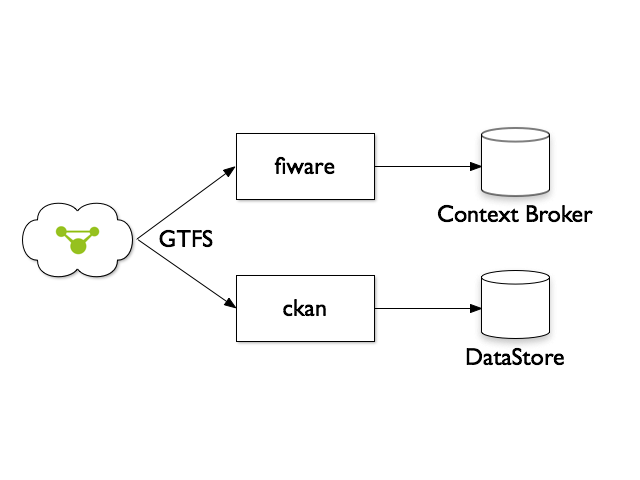
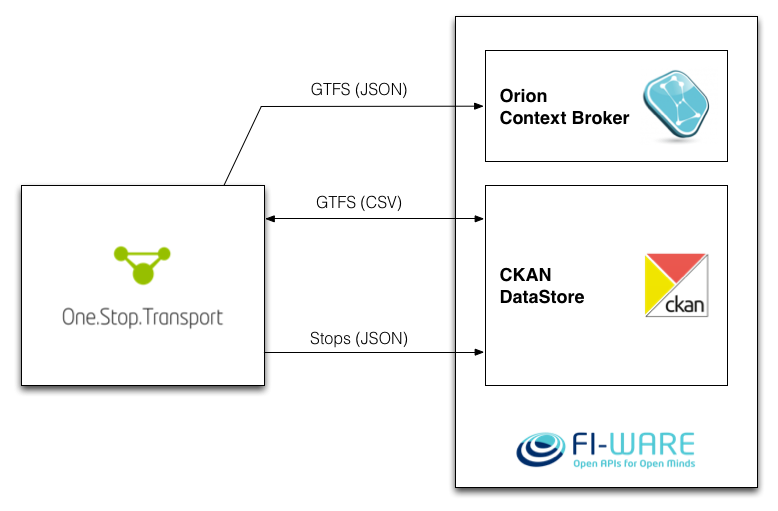
Updates the README:
- splits technical details to other doc
- updates the diagram
- information is more up-to-date

diff --git a/README.md b/README.md
@@ -1,105 +1,19 @@
-`Python` connectors between **One.Stop.Transport** and **FI-WARE** (Orion Context Broker and CKAN).
-
+Python connectors between **One.Stop.Transport** and **FI-WARE**, for demonstration purposes of the FIWARE Lisbon Case.
 
 ## FI-WARE Lisbon use case
 
-This is an Integration project between [One.Stop.Transport](https://ost.pt) and [FI-WARE](http://fi-ware.org), composed by two applications: `fiware` and `ckan`. 
+This is an integration project between [One.Stop.Transport](https://ost.pt) and [FI-WARE](http://fi-ware.org), for the demonstration FI-WARE Lisbon Use Case. It is a connector that fetches mobility data (GTFS or bus/train stops) from OST and inserts it on FI-WARE instances, as shown belos: 
 
 ![Project structure representation](structure.png)
 
-These applications fetch GTFS data from One.Stop.Transport's [APIs](https://developer.ost.pt/api-explorer/) and one of them (`fiware`) inserts it into an [Orion Context Broker](http://catalogue.fi-ware.org/enablers/configuration-manager-orion-context-broker) instance while the other (`ckan`) imports it into a CKAN instance, more precisely to its [DataStore extension](http://docs.ckan.org/en/latest/maintaining/datastore.html).
+This project is composed by two applications: `fiware` and `ckan`. The first aims to insert data into an [Orion Context Broker](http://catalogue.fi-ware.org/enablers/configuration-manager-orion-context-broker) instance while the other (`ckan`) imports it into a CKAN instance, more precisely to its [DataStore extension](http://docs.ckan.org/en/latest/maintaining/datastore.html).
 
----
+This project is more focused on CKAN, since the Orion Context Broker is more adequate for dynamic or real-time data. The CKAN connector fetches mobility data (either bus/train stops from Lisbon or complete GTFS datasets) from One.Stop.Transport's [APIs](https://developer.ost.pt/api-explorer/) and pushes it to CKAN:
 
-## Setup
+  - If the data is the whole GTFS dataset, the `.txt` files are uploaded to CKAN;
+  - If data only consists of bus/train stops, it is uploaded in a specific JSON format, established by the other partners involved.
 
-This is a Python project that can be run as [Celery](http://www.celeryproject.org/) workers.
-
-#### Requirements
-
-- **[Python 2.7](https://www.python.org/download/releases/2.7)**
-- **[Pip](http://pip.readthedocs.org/en/latest/quickstart.html)**
-- **[cURL](http://curl.haxx.se/download.html)**
-
-#### "Should I use a virtual environment?"
-
-**YES**. It's strongly recommended to use a [virtual environment tool](http://en.wikipedia.org/wiki/Virtual_environment_software) to control the libraries' versions. We suggest **[pyenv](https://github.com/yyuu/pyenv)** with **[pyenv-virtualenv](https://github.com/yyuu/pyenv-virtualenv)**, but other solutions may suit you.
-
-#### Installation
-
-After setting that up and creating a `virtualenv` for this project, install its libraries:
-
-```
-git clone git@github.com:OneStopTransport/OST-FiWare-Lisbon.git
-cd OST-FiWare-Lisbon/
-git submodule update --init
-pip install -r requirements.pip
-```
-
-...and that's it.
-
----
-
-## Usage
-
-As stated before, this project fetches data from OST and inserts it into a CKAN or Context Broker instance. In order for it to work, we need a CKAN instance or a Context Broker instance running on FI-WARE and a suitable API Key to be used with OST. 
-
-#### Requirements
-
-- [OST](https://www.ost.pt) developer account (Sign up > Login > Settings > Developer Settings) ;
-- [OST Server API Key](https://github.com/OneStopTransport/OneStopTransport/wiki/Autenticac%CC%A7a%CC%83o-por-chave);
-- [Orion Context Broker](http://catalogue.fi-ware.org/enablers/configuration-manager-orion-context-broker) instance running on FI-WARE with a public IP (check the [documentation](http://catalogue.fi-ware.org/enablers/publishsubscribe-context-broker-orion-context-broker/documentation) for details);
-- [CKAN](http://ckan.org/) instance with [DataStore](http://docs.ckan.org/en/latest/maintaining/datastore.html) extension. You can easily install a [Vagrant machine with it](https://github.com/rjfv/ckan-vagrant);
-- [CKAN API Key](http://docs.ckan.org/en/latest/api/index.html#authentication-and-api-keys)  which you can retrieve from your profile, after creating an account on the CKAN instance;
-- [RabbitMQ](http://www.rabbitmq.com/) instance if you want this being run as a [Celery Beat Worker](http://docs.celeryproject.org/en/latest/userguide/periodic-tasks.html).
-
-
-#### Environment variables
-
-For security reasons, all the confidential data (such as the API Keys or the Context Broker Host) were not added to the project's repository, since they're retrieved from the system's environment. If you'll be running this project in an Unix system, you can put the following lines on the `~/.exports` file or in one of the following: `~/.bash_profile`, `~/.bashrc` or `~/.profile`:
-
-```
-# One.Stop.Transport API Keys 
-export OST_SERVER_KEY="<INSERT_OST_API_KEY_HERE>"
-export FIWARE_HOST="<INSERT_CONTEXTBROKER_IP_HERE>"
-export CKAN_API_KEY="<INSERT_CKAN_API_KEY_HERE>"
-export CKAN_HOST="<INSERT_CKAN_HOST_HERE>"
-```
-
-`FIWARE_HOST` can be an IP address or an URL, but **don't forget** the `http://` protocol and the `1026` port, or else the ContextBroker operations will not work.
-
-If you'll be running this as a [Celery](http://www.celeryproject.org/) worker, you'll need this too:
-```
-# RabbitMQ credentials and URLs
-export MQ_HOST_PROD="messaging.vhost.ost.pt"		# Only if you're running this on the OST architecture
-export MQ_HOST_TEST="<INSERT_RABBITMQ_HOST_HERE>"
-export MQ_USER="<INSERT_MQ_USER_HERE>"
-export MQ_PASSWORD="<INSERT_MQ_PASSWORD_HERE>"
-export MQ_VHOST="/"
-```
-
-#### Running the project
-
-There are two procedures, one if you'll use this as a regular Python project or as a periodic [Celery Beat worker](http://docs.celeryproject.org/en/latest/userguide/periodic-tasks.html).
-
-#### - Regular Python project
-
-Just run the following on the project's directory (`fiware_lisbon`):
-
-```
-python -m fiware.tasks	# to import GTFS data to ContextBroker
-python -m ckan.tasks	    # to import GTFS data to CKAN
-```
-
-#### - Celery Beat 
-
-Just run the following on the project's directory (fi-ware-lisbon):
-
-```
-celery worker -B -Q fiware_queue
-```
-
-And it will transfer the data at 6:00 AM to the Context Broker and at 6:30 AM to the CKAN DataStore, every day!
+Read more technical information (setup and usage instructions) **[here](fiware_lisbon/README.md)**.
 
 ---
 

diff --git a/fiware_lisbon/README.md b/fiware_lisbon/README.md
@@ -1,0 +1,106 @@
+Here we can find more technical details about the project.
+
+## Organization
+
+There are two applications in this project:
+
+- `fiware` - responsible for fetching mobility data from OST and inserting it into Orion Context Broker. It gets the full GTFS dataset and puts it as JSON models (**CAUTION**: it's obsolete because we've decided to use CKAN instead of Orion);
+- `ckan` - this CKAN connector is able to integrate OST's mobility data in two ways, both using OST APIs:
+	- fetch GTFS files (CSV as specified by the standard) and push them to the DataStore (CKAN extension), using [another project's capabilities](https://github.com/rjfv/datastore-loader);
+	- fetch GTFS Stops located in the Lisbon district, convert them to a specific JSON format (specified by the project's consortium) and push them to CKAN DataStore, using its APIs directly. 
+
+It was also developed the capability to import GTFS data from CKAN back to OST. The app responsible for that is `ckan`, however it was created for demonstration purposes only.
+
+---
+
+## Setup
+
+This is a Python project that can be run as [Celery](http://www.celeryproject.org/) workers.
+
+#### Requirements
+
+- **[Python 2.7](https://www.python.org/download/releases/2.7)**
+- **[Pip](http://pip.readthedocs.org/en/latest/quickstart.html)**
+- **[cURL](http://curl.haxx.se/download.html)**
+
+#### "Should I use a virtual environment?"
+
+**YES**. It's strongly recommended to use a [virtual environment tool](http://en.wikipedia.org/wiki/Virtual_environment_software) to control the libraries' versions. We suggest **[pyenv](https://github.com/yyuu/pyenv)** with **[pyenv-virtualenv](https://github.com/yyuu/pyenv-virtualenv)**, but other solutions may suit you.
+
+#### Installation
+
+After setting that up and creating a `virtualenv` for this project, install its libraries:
+
+```
+git clone git@github.com:OneStopTransport/OST-FiWare-Lisbon.git
+cd OST-FiWare-Lisbon/
+git submodule update --init
+pip install -r fiware_lisbon/requirements.pip
+```
+
+...and that's it.
+
+---
+
+## Usage
+
+As stated before, this project fetches data from OST and inserts it into a CKAN or Context Broker instance. In order for it to work, we need a CKAN instance or a Context Broker instance running on FI-LAB (or on your server) and a suitable API Key to be used with OST. 
+
+#### Environment Requirements
+
+- [OST](https://www.ost.pt) developer account (Sign up > Login > Settings > Developer Settings) ;
+- [OST Server API Key](https://github.com/OneStopTransport/OneStopTransport/wiki/Autenticac%CC%A7a%CC%83o-por-chave);
+- [Orion Context Broker](http://catalogue.fi-ware.org/enablers/configuration-manager-orion-context-broker) instance running on FI-LAB with a public IP (check the [documentation](http://catalogue.fi-ware.org/enablers/publishsubscribe-context-broker-orion-context-broker/documentation) for details) or on your custom server;
+- [CKAN](http://ckan.org/) instance with [DataStore](http://docs.ckan.org/en/latest/maintaining/datastore.html) extension. We'll try to provide you a Vagrant for easy deployment;
+- [CKAN API Key](http://docs.ckan.org/en/latest/api/index.html#authentication-and-api-keys)  which you can retrieve from your profile, after creating an account on the CKAN instance;
+- [RabbitMQ](http://www.rabbitmq.com/) instance if you want this being run as a [Celery Beat Worker](http://docs.celeryproject.org/en/latest/userguide/periodic-tasks.html).
+
+
+#### Environment variables
+
+For security reasons, all the confidential data (such as the API Keys or the Context Broker Host) were not added to the project's repository, since they're retrieved from the system's environment. If you'll be running this project in an Unix system, you can put the following lines on the `~/.exports` file or in one of the following: `~/.bash_profile`, `~/.bashrc` or `~/.profile`:
+
+```
+# One.Stop.Transport API Keys 
+export OST_SERVER_KEY="<INSERT_OST_API_KEY_HERE>"
+export FIWARE_HOST="<INSERT_CONTEXTBROKER_IP_HERE>"
+export CKAN_API_KEY="<INSERT_CKAN_API_KEY_HERE>"
+export CKAN_HOST="<INSERT_CKAN_HOST_HERE>"
+```
+
+`FIWARE_HOST` can be an IP address or an URL, but **don't forget** the `http://` protocol and the `1026` port, or else the ContextBroker operations will not work.
+
+If you'll be running this as a [Celery](http://www.celeryproject.org/) worker, you'll need this too:
+```
+# RabbitMQ credentials and URLs
+export MQ_HOST_PROD="messaging.vhost.ost.pt"		# Only if you're running this on the OST architecture
+export MQ_HOST_TEST="<INSERT_RABBITMQ_HOST_HERE>"
+export MQ_USER="<INSERT_MQ_USER_HERE>"
+export MQ_PASSWORD="<INSERT_MQ_PASSWORD_HERE>"
+export MQ_VHOST="/"
+```
+
+#### Running the project
+
+There are two procedures, one if you'll use this as a regular Python project or as a periodic [Celery Beat worker](http://docs.celeryproject.org/en/latest/userguide/periodic-tasks.html).
+
+#### - Regular Python project
+
+Just run the following on the project's directory (`fiware_lisbon`):
+
+```
+python -m fiware.tasks	# to import GTFS data to ContextBroker
+python -m ckan.tasks	    # to import GTFS data to CKAN
+```
+
+#### - Celery Beat 
+
+Just run the following on the project's directory (fi-ware-lisbon):
+
+```
+celery worker -B -Q fiware_queue
+```
+
+And it will transfer the data at 6:00 AM to the Context Broker and at 6:30 AM to the CKAN DataStore, every day!
+
+---
